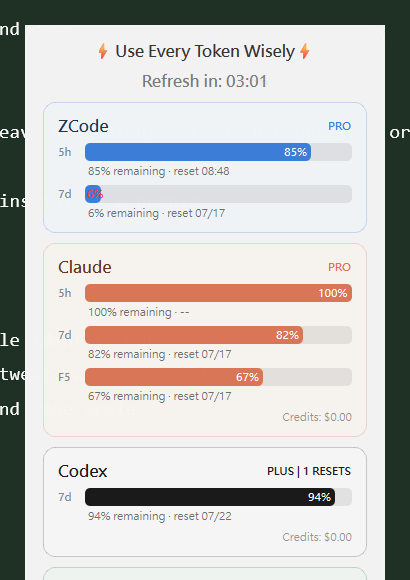
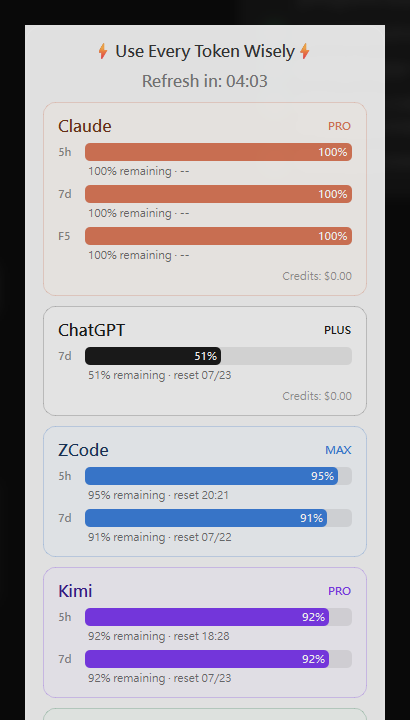
Update screenshot, README, and INSTALL for Kimi + new card order
- New screenshot with 5 cards (Claude, ChatGPT, ZCode, Kimi, Trae)
- README: updated service list, added Kimi to supported services table
- INSTALL: added Kimi to prerequisites
- Repo description updated

diff --git a/README.md b/README.md
@@ -1,6 +1,6 @@
 # ⚡Use Every Token Wisely⚡
 
-A small desktop widget that shows your AI usage quotas for ZCode, Claude, Codex, and Trae — so you have a rough idea of how much you have left before the next reset.
+A small desktop widget that shows your AI usage quotas for Claude, ChatGPT, ZCode, Kimi, and Trae — so you have a rough idea of how much you have left before the next reset.
 
 It's a personal project, fairly rough around the edges, but it works for my daily use. Feel free to try it or adapt it.
 
@@ -39,9 +39,10 @@ For step-by-step instructions, desktop shortcuts, and boot auto-launch, see **[I
 
 | Service | Status | How It Reads Quotas |
 |---------|--------|---------------------|
-| **ZCode** | Working | BigModel quota API using the API key from `~/.zcode/v2/config.json` |
 | **Claude** | Working | claude.ai OAuth usage API using credentials from local files |
-| **Codex** | Working | ChatGPT codex/usage API using the OAuth token from `~/.codex/auth.json` |
+| **ChatGPT** | Working | ChatGPT codex/usage API using the OAuth token from `~/.codex/auth.json` |
+| **ZCode** | Working | BigModel quota API using the API key from `~/.zcode/v2/config.json` |
+| **Kimi** | Working | Kimi membership API using the access token from `~/.kimi-desktop/` |
 | **Trae** | Limited | Shows plan tier only — Trae's quota API uses proprietary signing that this widget can't replicate yet |
 
 No API keys to configure — credentials are read from each tool's existing local install.

diff --git a/INSTALL.md b/INSTALL.md
@@ -6,7 +6,7 @@ Python 3.12 or newer. If you don't have it:
 - **Windows:** [python.org](https://www.python.org/downloads/) — check "Add Python to PATH" during install
 - **macOS:** `brew install python` or [python.org](https://www.python.org/downloads/)
 
-You'll also need at least one of these installed and logged in: [ZCode](https://z.ai), [Claude Code](https://docs.anthropic.com/en/docs/claude-code), [Codex](https://github.com/openai/codex), or [Trae](https://www.trae.cn/).
+You'll also need at least one of these installed and logged in: [Claude Code](https://docs.anthropic.com/en/docs/claude-code), [ChatGPT/Codex](https://github.com/openai/codex), [ZCode](https://z.ai), [Kimi](https://kimi.com), or [Trae](https://www.trae.cn/).
 
 ## Windows
 